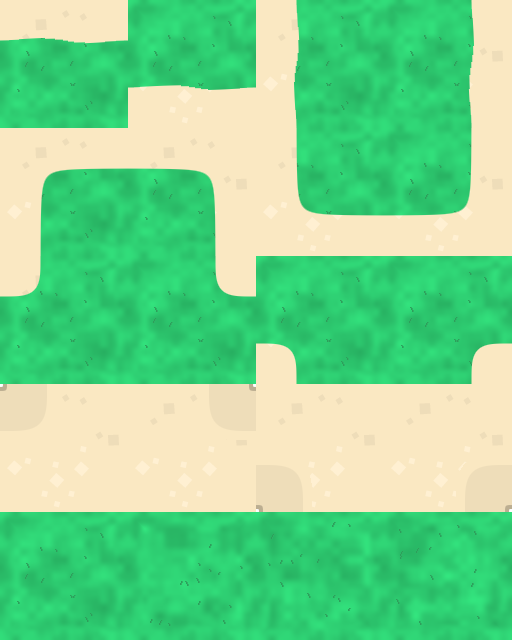
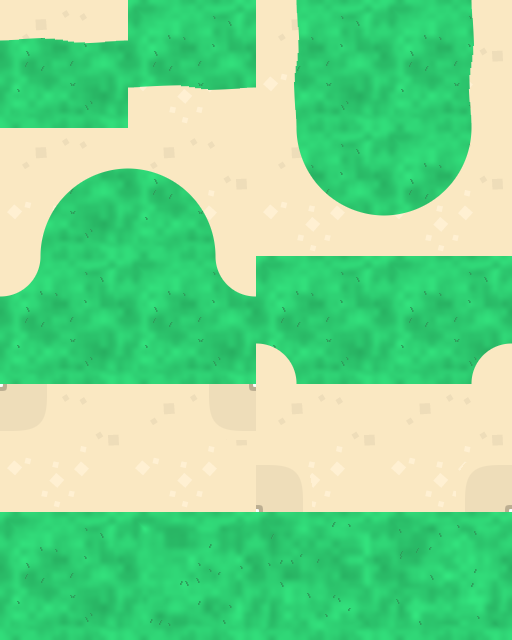
Give the grass patches of Beach Camp, Farm Meadow and Volcano Cliffs soft, rounded outlines (QA-3).
The patches were plain rectangles of grass cells, and the derived outer corner tiles only clipped about 8 px off
a square corner, so every patch read as a cut-out rectangle. The derive tool now rounds outer corners with an
88 px arc that meets the neighbour edge tiles at the tile sides, and inner corners use a 40 px quarter circle of
sand. The L1, L2 and L5 layouts reshape only grass cells into stepped blobs with inner corners; sand, shore,
rock, collision, zones, entities, tasks and events are unchanged. The play fingerprint baselines change only in
layout_sha and tiles/Grass, and the L5 surface fixture only on reshaped grass cells (grass vs sand only selects
the footstep and landing sound).

Regression tests in tests/levels/test_ground_texture.gd: outer corner grass starts at least 60 px along the
diagonal (was 48 px), and no grass patch in L1, L2 or L5 fills its bounding box or lacks an inner corner tile.
Both fail on main.

Visual check: python tools/capture_level.py --level res://scenes/levels/l2_farm_meadow.tscn --focus 8,9 (and
l1_beach_camp 9,7, l5_volcano_cliffs 11,15) or the tools/playtest.py level shots show round grass blobs with
curved corners and notches where there were straight rectangle outlines before.

diff --git a/docs/art_treatment.md b/docs/art_treatment.md
@@ -47,7 +47,7 @@ Bottom to top in every level (`scenes/levels/level_base.tscn`):
 
 1. `WaterBackdrop` – one repeating standalone water texture (`tile_73.png`) with `water.gdshader`, sampled in world space; it covers the level bounds plus one viewport on every side, so no clear colour ever shows.
 2. `Sand` – plain sand under every interior land cell.
-3. `Grass` – textured grass on top of sand: inner cells use one of four derived fill variants (palette grass shaded by value noise that wraps on the tile, a few foliage-coloured blade marks; luma standard deviation 0.025–0.04; all variants share a 6 px border band, so any neighbours are seamless) and border cells the derived soft grass-to-sand edge, outer corner and inner corner tiles built from fill variant 0 (`assets/graphics/pirate-pack-derived/grass_edges@2.png`, wavy border measured from the pack's grass blob, sand strip 40 px deep), never a hard or flat grass square.
+3. `Grass` – textured grass on top of sand: inner cells use one of four derived fill variants (palette grass shaded by value noise that wraps on the tile, a few foliage-coloured blade marks; luma standard deviation 0.025–0.04; all variants share a 6 px border band, so any neighbours are seamless) and border cells the derived soft grass-to-sand edge, outer corner and inner corner tiles built from fill variant 0 (`assets/graphics/pirate-pack-derived/grass_edges@2.png`, wavy border measured from the pack's grass blob, sand strip 40 px deep, outer corners rounded by an 88 px arc that meets the neighbour edges at the tile sides, inner corners a 40 px quarter circle of sand), never a hard or flat grass square. Grass patches in the layouts have stepped, irregular outlines with inner corners, never a plain rectangle of `,` cells (QA-3, checked for Beach Camp, Farm Meadow and Volcano Cliffs in `tests/levels/test_ground_texture.gd`).
 4. `Shore` – shoreline edge and outer corner tiles of the pack and the derived inner corner tiles on the outer land cells (their transparent outer part shows the water).
 5. `Details` – rocks.
 6. `GroundDecor` – flat set dressing (BI-20): fields, fence runs and driftwood as plain `Sprite2D` decals in group `decor`, `z_index = -2`, after `Details` and before `ZoneMarkers`. They carry their soft shadow baked into the PNG (palette `shadow` at about 0.35 alpha, offset (3, 3), 2 px blur) instead of a `Shadow` node, are not in group `prop`, have no collision and never cover actors; the castaway and the animals walk over them.

diff --git a/docs/levels.md b/docs/levels.md
@@ -173,7 +173,7 @@ Shore rules (keep the water collision closed):
 
 Grass rules (soft grass-to-sand transitions from `assets/graphics/pirate-pack-derived/grass_edges@2.png`):
 
-- A grass cell with sand or rock on one side gets an edge tile, on two adjacent sides an outer corner tile, and with sand only on one diagonal an inner corner tile (all atlas source 1 on the `Grass` layer, plain sand below). Inner grass cells get a textured fill variant (atlas source 1, row 4) from `fill_variant(cell)`: cells with an even `x + y` use variants 0 or 1, odd cells 2 or 3, picked by a deterministic cell hash, so no two 4-neighbours and no 2×2 block repeat one tile.
+- A grass cell with sand or rock on one side gets an edge tile, on two adjacent sides an outer corner tile, and with sand only on one diagonal an inner corner tile (all atlas source 1 on the `Grass` layer, plain sand below). Inner grass cells get a textured fill variant (atlas source 1, row 4) from `fill_variant(cell)`: cells with an even `x + y` use variants 0 or 1, odd cells 2 or 3, picked by a deterministic cell hash, so no two 4-neighbours and no 2×2 block repeat one tile. Shape grass patches as irregular blobs (steps with inner corners), not as plain rectangles: the round outer corner tiles then give a soft outline.
 - Grass patches must be at least 2 cells wide in both directions; a one-cell strip is a layout error.
 - Grass must not touch the shore or water (8-neighbours): keep one plain sand cell between grass and any shore tile.
 - Other shapes (for example sand on one side plus a sand diagonal on the far side) are rejected; round the patch off.
